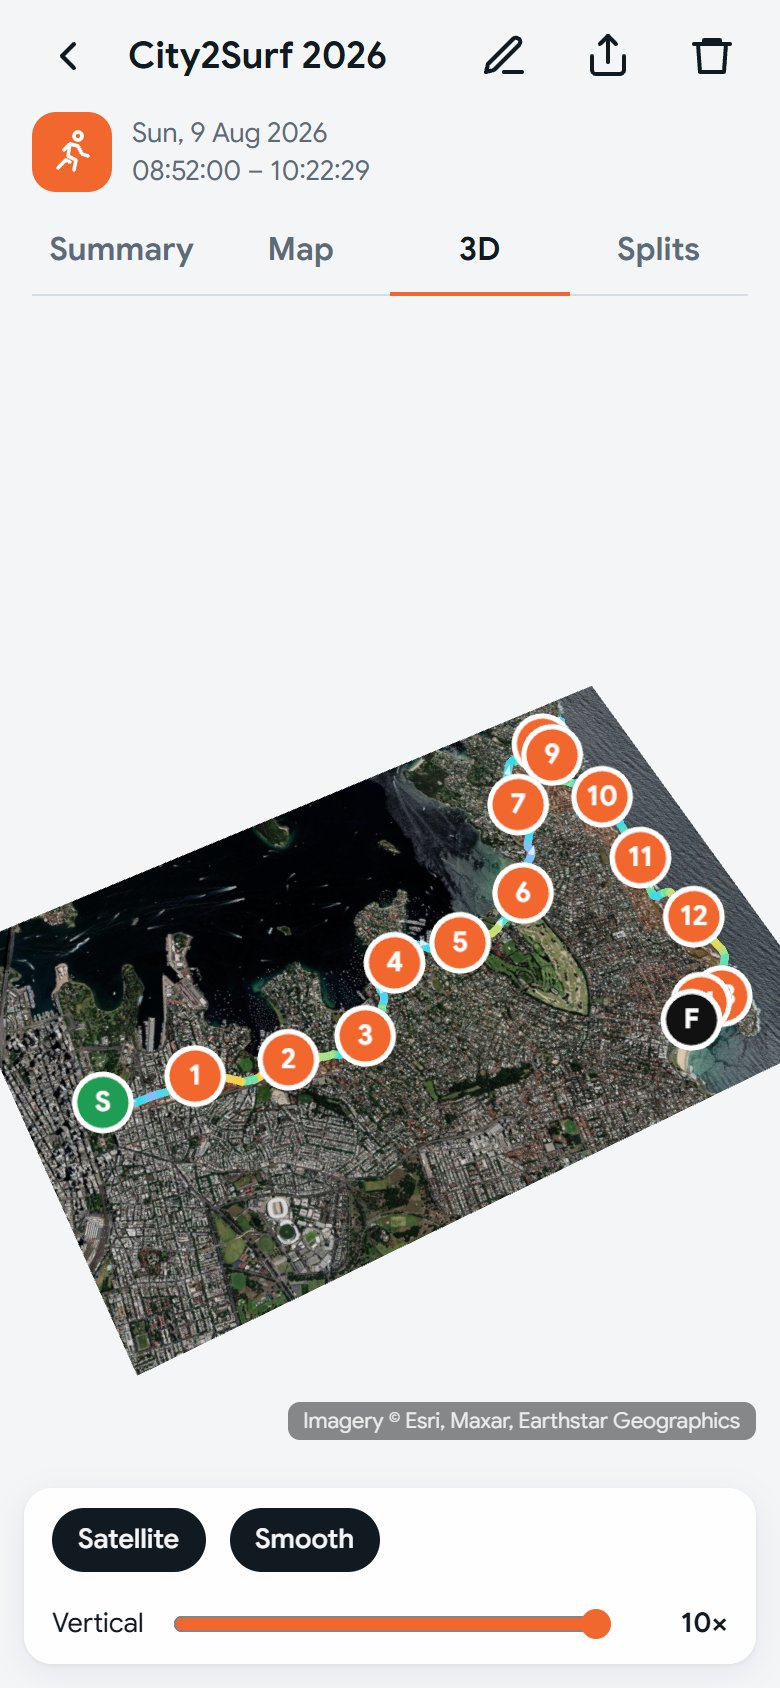
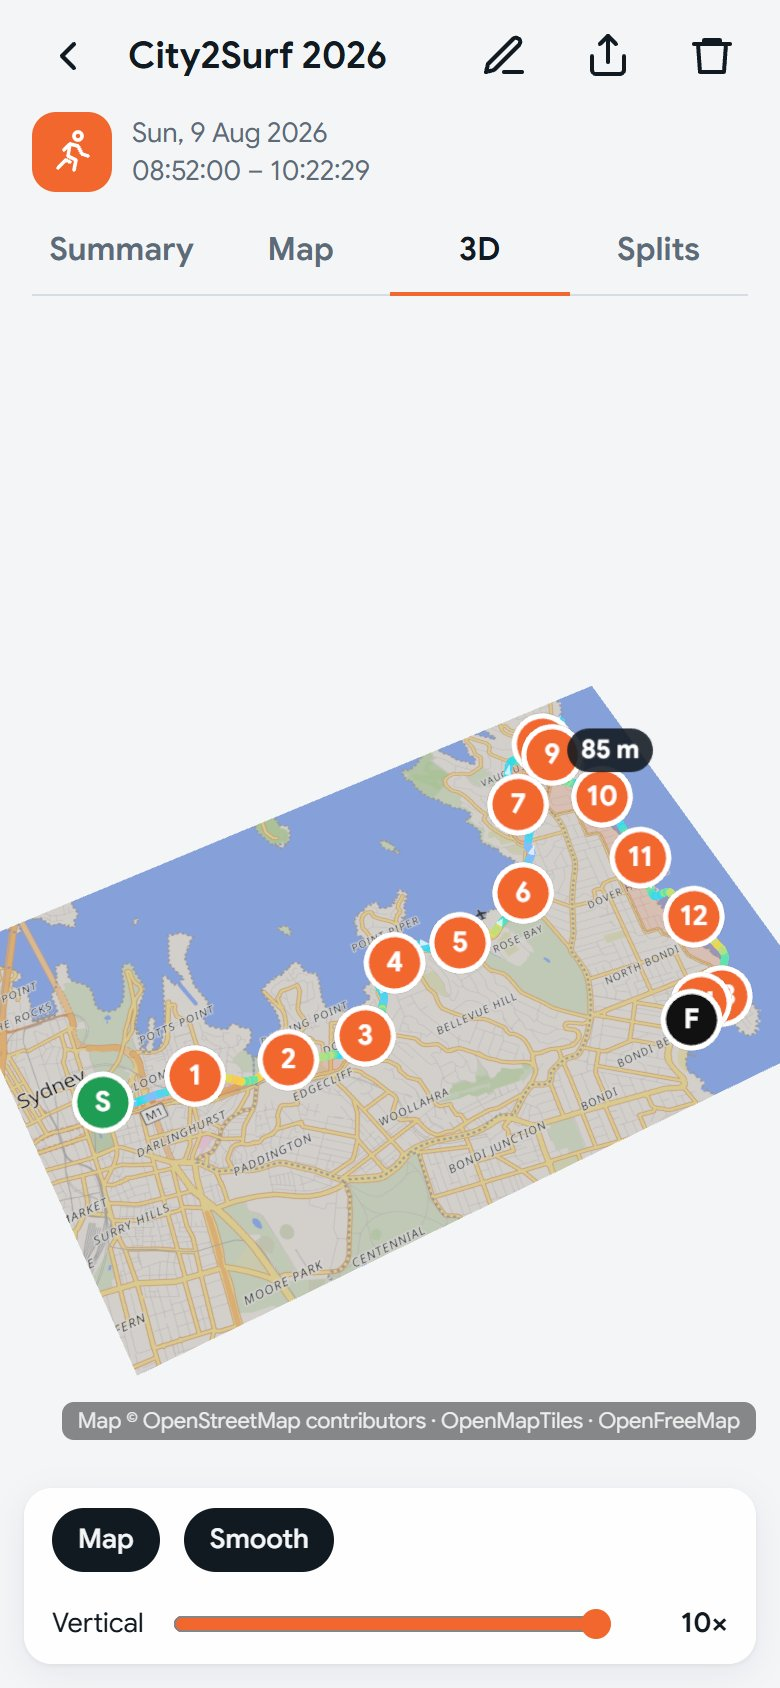
README: 3D screenshots over the street map

Changed region(s): [[0.0, 0.4005, 1.0, 0.8626], [0.0923, 0.8934, 0.4923, 0.955]]

diff --git a/README.md b/README.md
@@ -37,7 +37,7 @@ sensors.
   <img src="docs/screenshots/map.jpeg" width="250" alt="Map view with speed-coloured route, distance marker popover, and elevation profile with heart-rate line">
 </p>
 <p align="center">
-  <img src="docs/screenshots/3d.jpeg" width="250" alt="3D route over satellite imagery with exaggerated altitude">
+  <img src="docs/screenshots/3d.jpeg" width="250" alt="3D route over the street map with exaggerated altitude">
   &nbsp;
   <img src="docs/screenshots/splits.png" width="250" alt="Per-kilometre splits with pace, elevation change, heart rate and time">
   &nbsp;
@@ -88,7 +88,7 @@ sensors.
 <p align="center">
   <img src="docs/screenshots/view-map.png" width="250" alt="A shared course on the map in one colour, with a readout of distance, altitude, grade and climb so far, and the elevation profile">
   &nbsp;
-  <img src="docs/screenshots/view-3d.png" width="250" alt="A shared course in 3D over satellite imagery, drawn in one colour">
+  <img src="docs/screenshots/view-3d.png" width="250" alt="A shared course in 3D over the street map, drawn in one colour">
 </p>
 <p align="center">
   <img src="docs/screenshots/viewer.jpeg" width="760" alt="Locale Viewer in a desktop browser: the City2Surf course from a link, full width on the map with its elevation profile">
